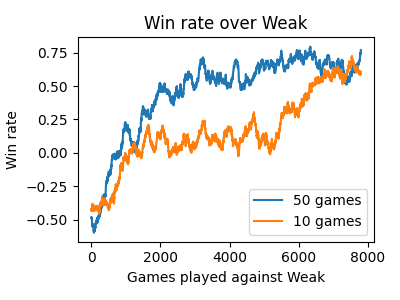
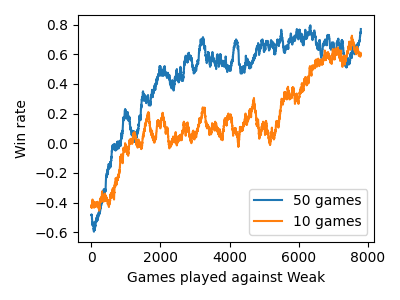
new plots without caption

diff --git a/src/hockey-env/plots_for_report.py b/src/hockey-env/plots_for_report.py
@@ -62,7 +62,7 @@ def plot_rewards(agents_names, episodes = 5000, name = "rewards"):
         plt.plot(running_mean(plotted_rewards, 100), label=agent_name)
     plt.xlabel('Episode')
     plt.ylabel('Rewards')
-    plt.title('Rewards over episodes')
+    plt.title("")
     save_path = os.path.join(plots_dir, f"{name}.png")
     plt.legend()
    
@@ -84,7 +84,7 @@ def plot_winrate(agents, name, opponent_name, opponent_idx, chunk_size=200, game
         plt.plot(running_means, label=agent_name)
     plt.xlabel(f'Games played against {opponent_name}')
     plt.ylabel('Win rate')
-    plt.title(f'Win rate over {opponent_name}')
+    plt.title("")
     plt.legend()
     save_path = os.path.join(plots_dir, f"{name}.png")
     plt.tight_layout()
@@ -106,7 +106,7 @@ plot_rewards([(bigger_lr, "bigger_lr"),(bigger_nn, "bigger_nn"), (Combined_n_4, 
 
 plot_winrate([(tournament_agent_path, "4 Steps"),(n_step_6_path, "6 Steps"), (classic_dqn, "DQN"),(n_step_1_path, "1 Step") ], opponent_name=  "Weak", games = 10000, opponent_idx = 1, name = "win_rate_n_steps")
 plot_winrate([(tournament_agent_path, "Alpha:0.2 Beta:0.6"),(prio_alpha_04,  "Alpha:0.4 Beta:0.6"), (classic_dqn, "DQN"),(prio_alpha_02_beta_04,  "Alpha:0.2 Beta:0.4") ], games = 10000, opponent_name=  "Weak", opponent_idx = 1, name = "win_rate_alpha_beta")
-plot_winrate([(tournament_agent_path, "PER + 4-Step"),(Combined_n_4, "Combined"), (classic_dqn, "DQN")], opponent_name=  "Weak", opponent_idx = 1, name = "win_rate_vs_weak", games = 12000)
+plot_winrate([(tournament_agent_path, "PER + 4-Step"),(Combined_n_4, "Combined"), (classic_dqn, "DQN"),(bigger_nn, "bigger nn")], opponent_name=  "Weak", opponent_idx = 1, name = "win_rate_vs_weak", games = 12000)
 plot_winrate([(Combined_n_4,"50 games"),(Combined_n_4_ten_games, "10 games")], opponent_name=  "Weak", opponent_idx = 1, name = "win_rate_combined_vs_ten_games", games=8000)
 plot_winrate([(bigger_lr, "bigger_lr"),(bigger_nn, "bigger_nn"), (Combined_n_4, "Combined_n_4")], opponent_name=  "Weak", opponent_idx = 1, name = "win_rate_bigger_lr_nn")
 
